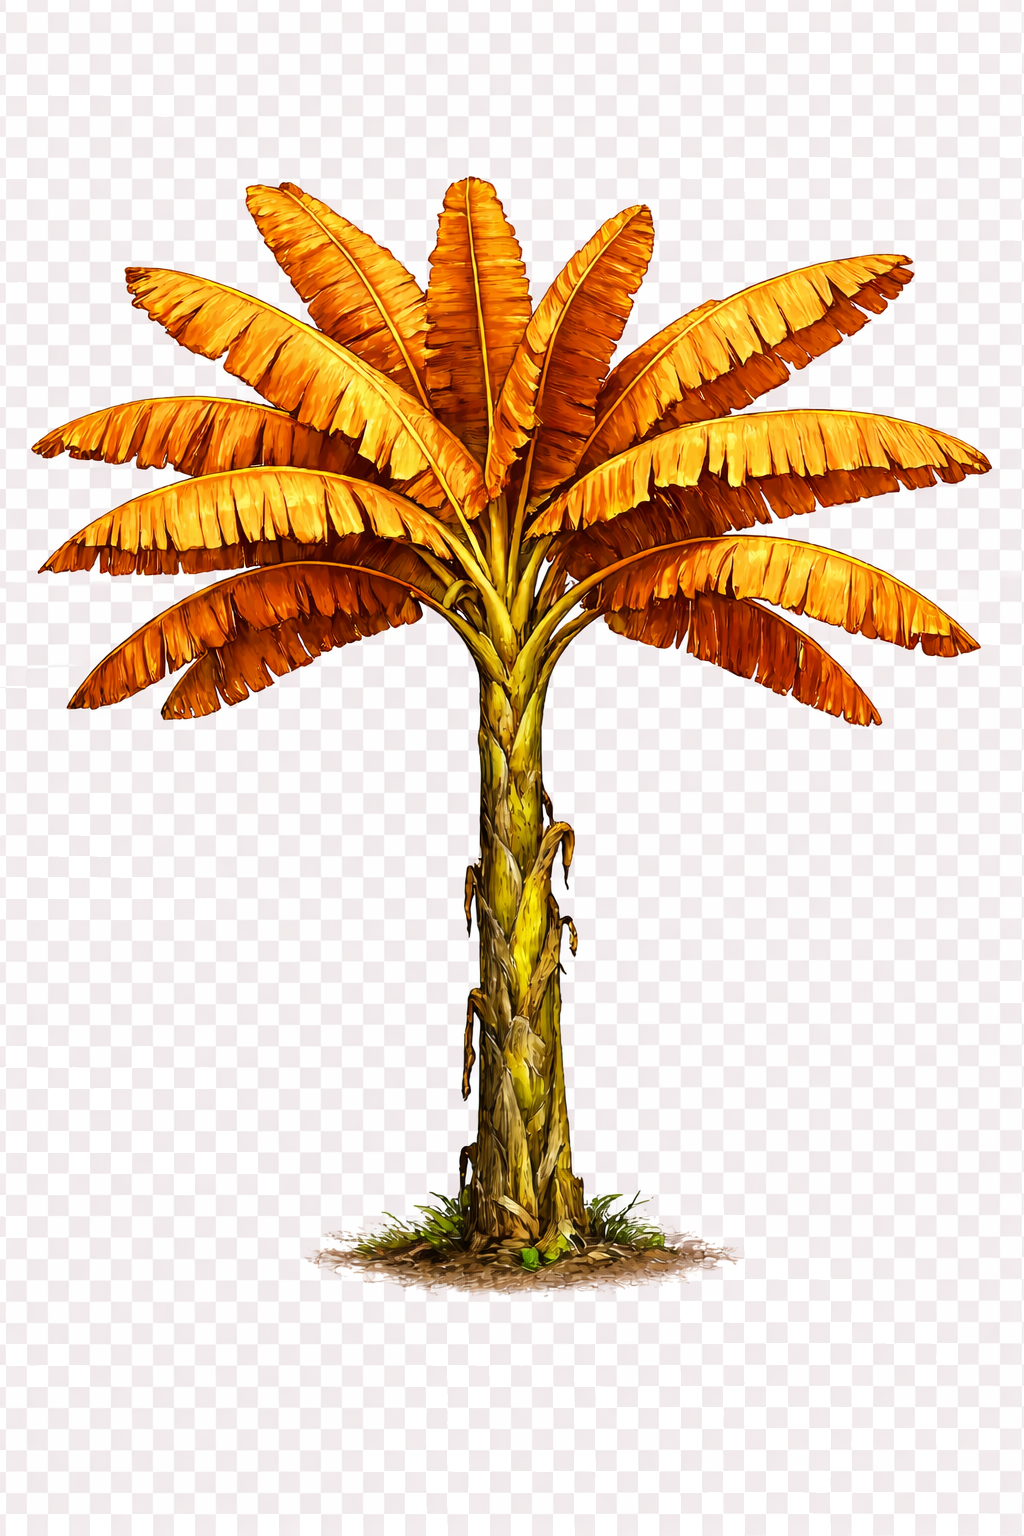
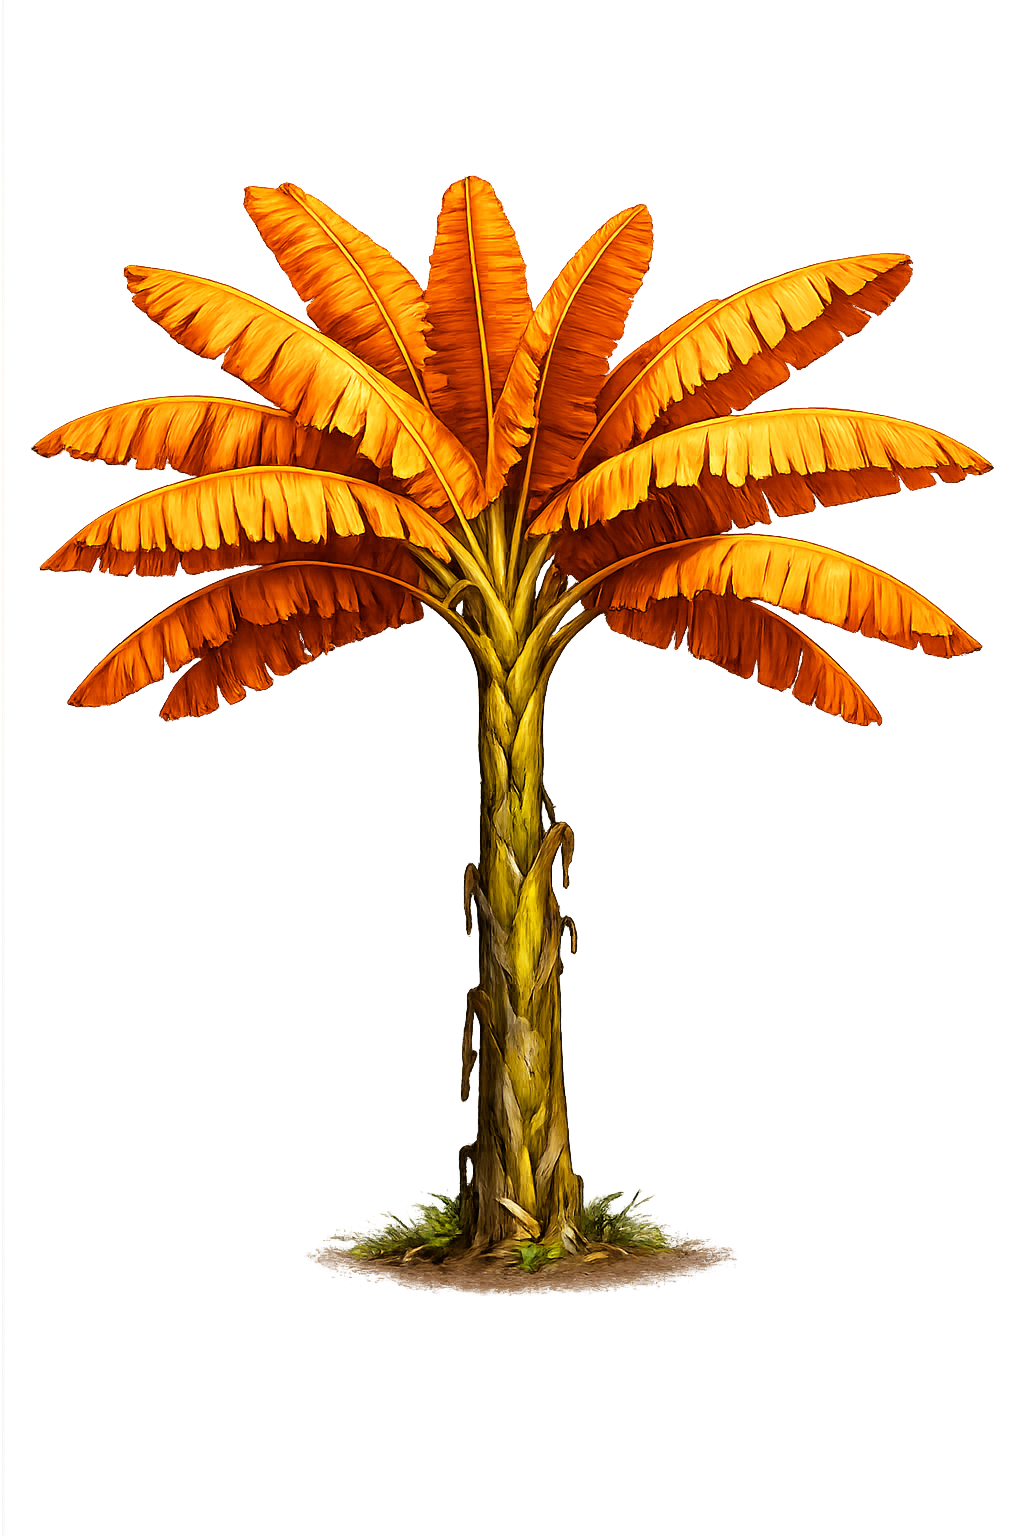
Release v1.1.5

Changed region(s): [[0.0312, 0.0938, 0.9688, 0.8438]]

diff --git a/src/renderer/styles.css b/src/renderer/styles.css
@@ -356,7 +356,7 @@ button:disabled {
   width: 70%;
   height: 56%;
   left: 50%;
-  top: 11%;
+  top: calc(11% + 34px);
   transform: translateX(-50%);
   border-radius: 50%;
   pointer-events: none;

diff --git a/CHANGELOG.md b/CHANGELOG.md
@@ -1,0 +1,43 @@
+# Changelog
+All notable changes to this project are documented in this file.
+
+The format is based on Keep a Changelog and this project uses semantic versioning.
+
+## [1.1.5] - 2026-03-09
+### Added
+- Settings toggle for graphics mode (`Modern` / `Legacy`).
+- Collapsible `PIP Shop` section with compact grid layout.
+- Collapsible `Achievements` section with compact grid layout.
+- Automated modern texture alpha conversion script:
+  - `scripts/convert-modern-textures.ps1`
+  - npm command: `npm run graphics:alpha`
+- Shared leaderboard integration flow improvements and proof messaging.
+
+### Changed
+- Modern texture set now pulls from `src/main/graphics/new*.png`.
+- Legacy texture set remains in `src/main/legacy graphics`.
+- Banana texture selection now follows tree tier progression (tier 1 -> banana 1, tier 2 -> banana 2, etc., clamped by available textures).
+- Tree spawn zone moved lower by roughly 34px for improved visual placement.
+- Upgrades view navigation now uses a single `Back To Main` control path (top nav toggle button).
+
+### Fixed
+- Duplicate return-to-main control in Upgrades view.
+- Modern/legacy texture mode switching now updates tree and banana visuals live.
+- File-lock save issue in automated texture conversion script by using temp-file replacement.
+
+### Notes
+- The modern art pack currently includes 7 tree textures (`newTree1`..`newTree7`); tier 8 reuses `newTree7`.
+- Backup copies from conversion are stored under `src/main/graphics/_backup-before-alpha`.
+
+## [Unreleased]
+### Added
+- 
+
+### Changed
+- 
+
+### Fixed
+- 
+
+### Removed
+- 
